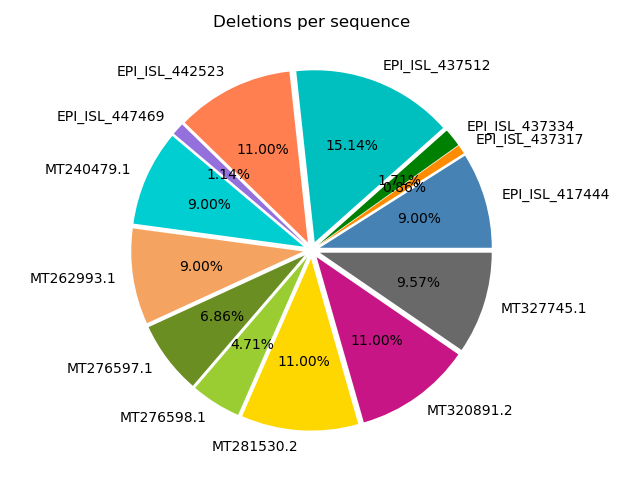
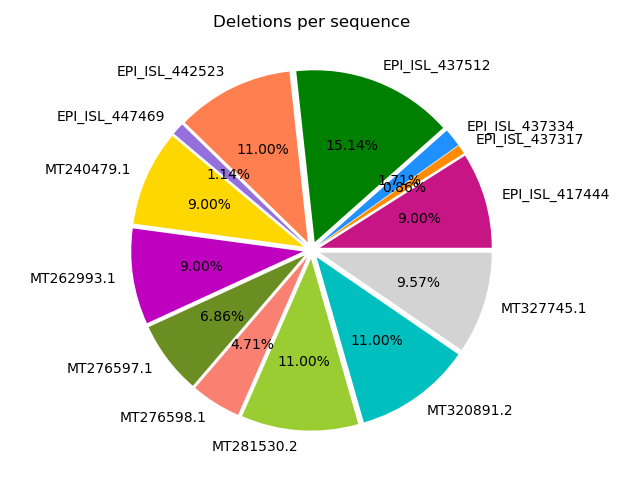
Update plots

Changed region(s): [[0.1875, 0.125, 0.7812, 0.9062]]

diff --git a/project-1/main.py b/project-1/main.py
@@ -151,25 +151,30 @@ def analysis(filename):
             'nas': sequence.count('N')
         })
 
+    colors = ['mediumvioletred', 'darkorange', 'dodgerblue', 'green', 'coral', 'mediumpurple', 'gold', 'm', 'olivedrab', 'salmon','yellowgreen', 'c', 'lightgray']
+
     # Count NAs
-    df_nas = pd.DataFrame(nas, columns=['id', 'nas']).set_index('id')
-    ax = df_nas.sort_values(by='nas').plot.barh(legend=False)
+    df_nas = pd.DataFrame(nas, columns=['id', 'nas']).set_index('id').sort_values(by='nas')
+    ax = df_nas.plot.barh(legend=False)
     ax.set_title('Not Available Bases')
-    ax.set_ylabel('Sequence ID')
     ax.set_xlabel('Count')
+    ax.set_xlim((0, 1450))
+    ax.set_ylabel('Sequence ID')
+    for i, (k, v) in enumerate(df_nas.iterrows()):
+        v = v['nas']
+        ax.text(v + 10, i - .15, str(v), color='black')
     plt.tight_layout()
     plt.savefig(os.path.join('relazione', 'images', 'plot-not-availables'))
 
     # Char Count per Variation Type
     chars_per_var = df_chars.groupby(['type']).count().sort_values(by='alteration')
-    ax = chars_per_var.plot.pie(y='alteration', autopct='%.2f%%', labels=['Insertion', 'Replacement', 'Deletion'], legend=False)
+    ax = chars_per_var.plot.pie(y='alteration', autopct='%.2f%%', labels=['Insertion', 'Replacement', 'Deletion'], colors=colors, legend=False)
     ax.set_title('Variation types')
     ax.set_ylabel('')
     plt.tight_layout()
     plt.savefig(os.path.join('relazione', 'images', 'plot-variations-per-type'))
 
     # Deletions per sequence
-    colors = ['steelblue', 'darkorange', 'green', 'c', 'coral', 'mediumpurple', 'darkturquoise', 'sandybrown', 'olivedrab', 'yellowgreen', 'gold', 'mediumvioletred', 'dimgray']
     chars_per_var = df_chars[df_chars['type']=='DEL'].groupby(['id']).count()
     ax = chars_per_var.plot.pie(y='alteration', autopct='%.2f%%', legend=False, colors=colors, explode=len(sequences.keys()) * [0.05])
     ax.set_title('Deletions per sequence')
@@ -190,7 +195,11 @@ def analysis(filename):
     ax = chars_per_var.plot.barh(y='type', legend=False)
     ax.set_title('Alterations')
     ax.set_xlabel('Count')
+    ax.set_xlim((0, 470))
     ax.set_ylabel('Alteration')
+    for i, (k, v) in enumerate(chars_per_var.iterrows()):
+        v = v['type']
+        ax.text(v + 4, i - .15, str(v), color='black')
     plt.tight_layout()
     plt.savefig(os.path.join('relazione', 'images', 'plot-alterations'))
 
@@ -199,7 +208,11 @@ def analysis(filename):
     ax = seq_per_var.plot.barh(y='alteration', legend=False)
     ax.set_title('Mismatches')
     ax.set_xlabel('Count')
+    ax.set_xlim((0, 130))
     ax.set_ylabel('Sequence ID')
+    for i, (k, v) in enumerate(seq_per_var.iterrows()):
+        v = v['alteration']
+        ax.text(v + 2, i - .15, str(v), color='black')
     plt.tight_layout()
     plt.savefig(os.path.join('relazione', 'images', 'plot-mismatches'))
 
